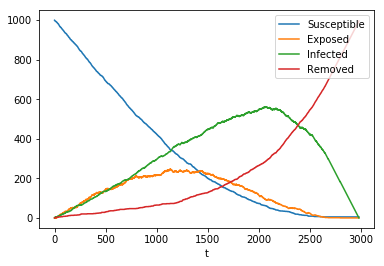
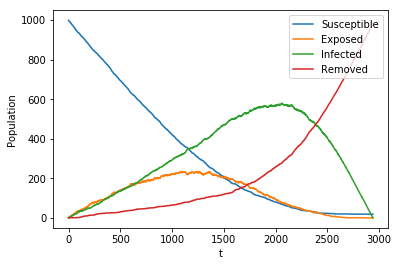
Fixed plot

diff --git a/seir-sim-test-script.py b/seir-sim-test-script.py
@@ -31,4 +31,4 @@ for i in range(4):
     plt.plot(range(len(log)),stats[:,i])
 plt.legend(['Susceptible','Exposed','Infected','Removed'],loc='upper right')
 plt.xlabel('t')
-plt.ylable('Nodes')
+plt.ylabel('Population')
